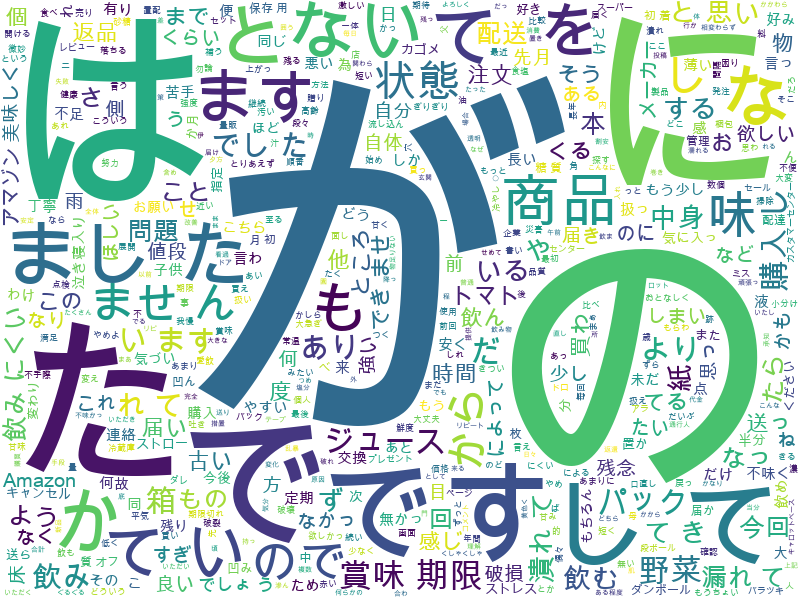
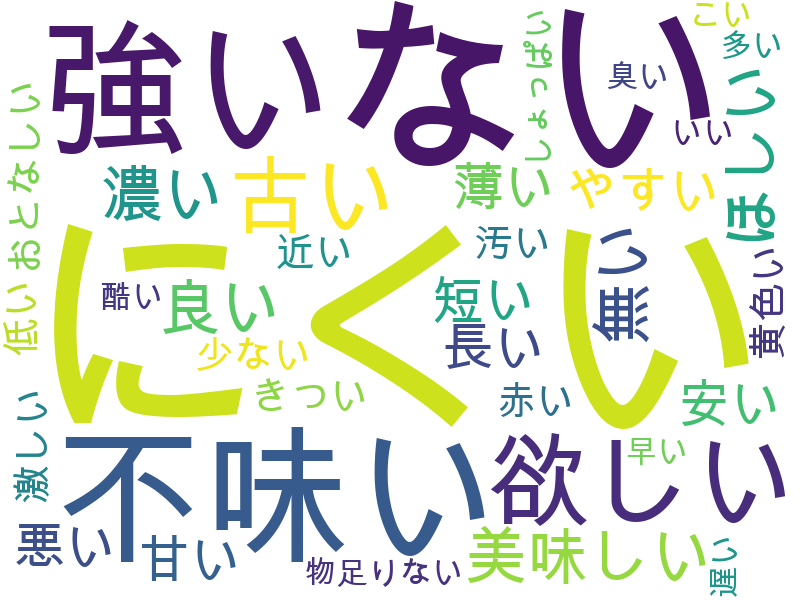
意味がわからない単語を削除

diff --git a/lab_seaching/dictionary_parsing/parsing.py b/lab_seaching/dictionary_parsing/parsing.py
@@ -1,19 +1,26 @@
 from janome.tokenizer import Tokenizer
 from wordcloud import WordCloud
 
+import collections
+
 with open('lab_seaching/q_sentiment_test.txt', 'r') as f:
     parsing_list = f.read().split("\n")
     # print(parsing_list)
 
 t = Tokenizer()
-results = []
+results = []    
 for parsing in parsing_list:
-    # 全角スペースを削除 # リストに追加
-    tokens = list(t.tokenize(parsing, wakati=True))
-    result = [i.replace('\u3000','') for i in tokens] 
+    # 名詞、動詞、形容詞を切り替えて使う
+    result = [token.base_form for token in t.tokenize(parsing) if token.part_of_speech.split(',')[0] in ['形容詞']]
     results.extend(result)
 
+# 単語の頻度を確認
+c = collections.Counter(results)
+print(c.most_common())
 print(results)
+
+# 削除するワードをリスト化
+stopwords = ['ん', 'よう', 'の', 'こと', 'さ', 'そう', 'まま', 'はず']
 
 # wordcloud
 #日本語のフォントパス
@@ -21,6 +28,6 @@ fpath = '/Library/Fonts//Arial Unicode.ttf'
 text = ' '.join(results) # 区切り文字を「・」にして文字列に変換
 print(text)
 # 単語の最大表示数は500に設定
-wordcloud = WordCloud(background_color='white', font_path=fpath, width=800, height=600, max_words=500).generate(text)
+wordcloud = WordCloud(background_color='white', font_path=fpath, width=800, height=600, max_words=500, stopwords=set(stopwords)).generate(text)
 print(wordcloud)
 wordcloud.to_file('./wordcloud.png')
